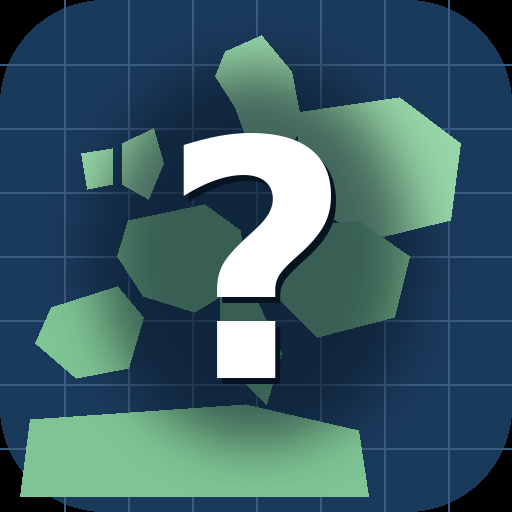
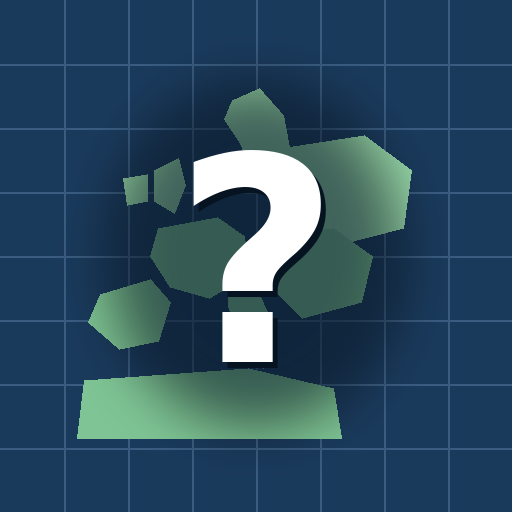
Add files via upload

diff --git a/index.html b/index.html
@@ -659,6 +659,17 @@ function kjorerSomApp() {
   } catch (e) { return false; }
 }
 const brukerAgent = () => { try { return navigator.userAgent || ''; } catch (e) { return ''; } };
+
+/* Chrome på Android varsler før den viser sin egen installasjonsknapp.
+   Vi fanger varselet og tilbyr knappen i vår egen skjerm i stedet — da
+   slipper man å lete i nettlesermenyen. iOS støtter ikke dette. */
+let installVarsel = null;
+window.addEventListener('beforeinstallprompt', e => {
+  e.preventDefault();
+  installVarsel = e;
+  if (DATA) tegnInstaller();
+});
+window.addEventListener('appinstalled', () => { installVarsel = null; });
 const erIOS = () => /iPad|iPhone|iPod/.test(brukerAgent());
 const erIOSChrome = () => erIOS() && /CriOS|FxiOS|EdgiOS|OPiOS/.test(brukerAgent());
 
@@ -684,11 +695,15 @@ function tegnInstaller() {
            <li>Trykk <b>Legg til</b> øverst til høyre</li>
            <li>Lukk Safari og <b>åpne appen fra hjemskjermen</b></li>
          </ol></div>`
-      : `<div class="instrinn"><ol>
-           <li>Åpne menyen i nettleseren</li>
-           <li>Velg <b>«Installer app»</b> eller <b>«Legg til på startskjerm»</b></li>
-           <li>Åpne appen fra ikonet etterpå</li>
-         </ol></div>`;
+      : installVarsel
+        ? `<button class="knapp" id="insnaa">📲 Installer appen</button>
+           <div class="insfot" style="margin-top:12px">Ett trykk. Ikonet legger seg på startskjermen din.</div>`
+        : `<div class="instrinn"><ol>
+             <li>Åpne <b>⋮</b>-menyen øverst til høyre i Chrome</li>
+             <li>Velg <b>«Legg til på startsiden»</b> eller <b>«Installer app»</b></li>
+             <li>Bekreft med <b>Installer</b></li>
+             <li>Åpne appen fra <b>ikonet på startskjermen</b></li>
+           </ol></div>`;
 
   boks.innerHTML =
     `<div class="inswrap">
@@ -699,6 +714,15 @@ function tegnInstaller() {
       <div class="insfot">${esc(cfg.fot || '')}</div>
       <button class="insvidere" id="insvidere">Fortsett i nettleseren likevel</button>
     </div>`;
+
+  const naa = $('#insnaa');
+  if (naa) naa.onclick = async () => {
+    if (!installVarsel) return;
+    installVarsel.prompt();
+    try { await installVarsel.userChoice; } catch (e) {}
+    installVarsel = null;
+    tegnInstaller();
+  };
 
   /* Nødutgang. Skjult som en liten lenke, men den finnes — ingen skal
      stå fast på en flyplass fordi installeringen ikke vil. */

diff --git a/sw.js b/sw.js
@@ -6,7 +6,7 @@
      · kartfliser → egen cache med tak, så lagringen ikke vokser i det uendelige
    Øk CACHE-navnet hvis du endrer index.html, ellers kan gamle filer henge igjen. */
 
-const CACHE = 'blatur-v18';
+const CACHE = 'blatur-v19';
 const FLISER = 'blatur-fliser-v1';
 const MAKS_FLISER = 400;
 
